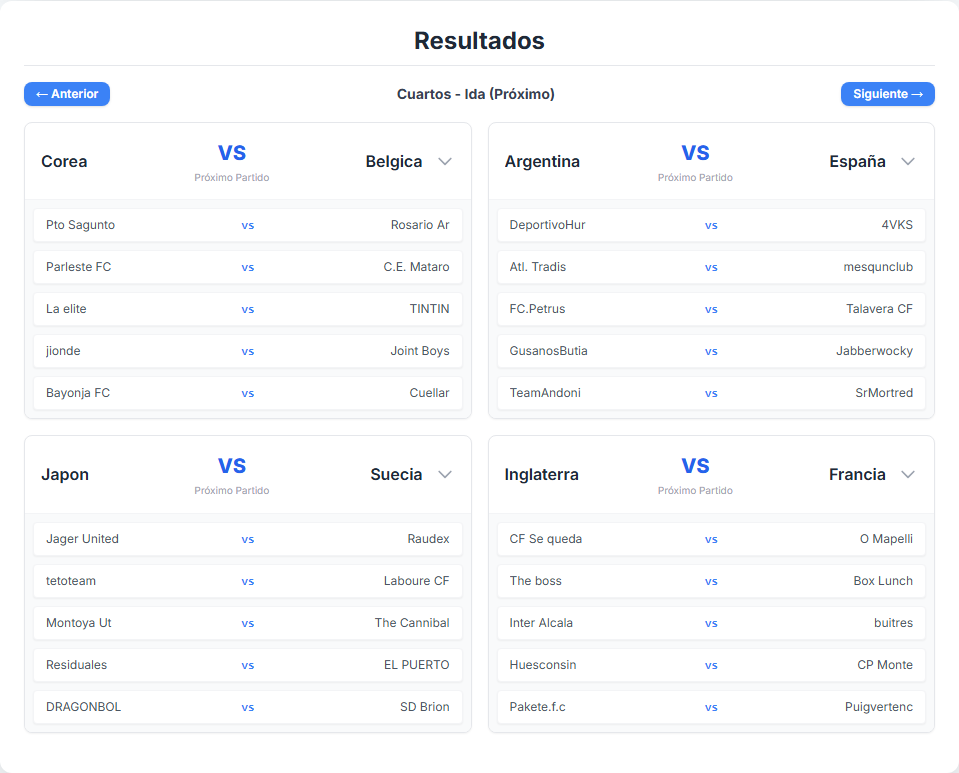
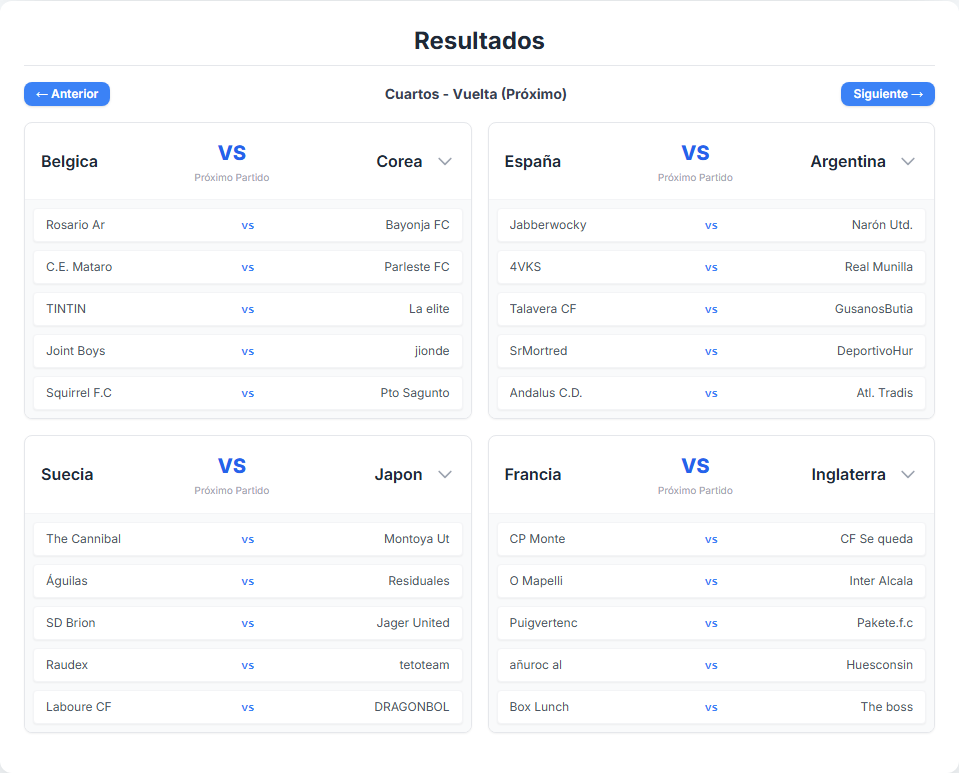
Actualización automática: 2025-12-10 20:06:41

diff --git a/index.html b/index.html
@@ -5482,6 +5482,166 @@
         "visit": "Puigvertenc",
         "jornada": 10,
         "is_scheduled": false
+    },
+    {
+        "local": "Rosario Ar",
+        "gl": null,
+        "gv": null,
+        "visit": "Bayonja FC",
+        "jornada": 11,
+        "is_scheduled": true
+    },
+    {
+        "local": "C.E. Mataro",
+        "gl": null,
+        "gv": null,
+        "visit": "Parleste FC",
+        "jornada": 11,
+        "is_scheduled": true
+    },
+    {
+        "local": "TINTIN",
+        "gl": null,
+        "gv": null,
+        "visit": "La elite",
+        "jornada": 11,
+        "is_scheduled": true
+    },
+    {
+        "local": "Joint Boys",
+        "gl": null,
+        "gv": null,
+        "visit": "jionde",
+        "jornada": 11,
+        "is_scheduled": true
+    },
+    {
+        "local": "Squirrel F.C",
+        "gl": null,
+        "gv": null,
+        "visit": "Pto Sagunto",
+        "jornada": 11,
+        "is_scheduled": true
+    },
+    {
+        "local": "The Cannibal",
+        "gl": null,
+        "gv": null,
+        "visit": "Montoya Ut",
+        "jornada": 11,
+        "is_scheduled": true
+    },
+    {
+        "local": "Águilas",
+        "gl": null,
+        "gv": null,
+        "visit": "Residuales",
+        "jornada": 11,
+        "is_scheduled": true
+    },
+    {
+        "local": "SD Brion",
+        "gl": null,
+        "gv": null,
+        "visit": "Jager United",
+        "jornada": 11,
+        "is_scheduled": true
+    },
+    {
+        "local": "Raudex",
+        "gl": null,
+        "gv": null,
+        "visit": "tetoteam",
+        "jornada": 11,
+        "is_scheduled": true
+    },
+    {
+        "local": "Laboure CF",
+        "gl": null,
+        "gv": null,
+        "visit": "DRAGONBOL",
+        "jornada": 11,
+        "is_scheduled": true
+    },
+    {
+        "local": "Jabberwocky",
+        "gl": null,
+        "gv": null,
+        "visit": "Narón Utd.",
+        "jornada": 11,
+        "is_scheduled": true
+    },
+    {
+        "local": "4VKS",
+        "gl": null,
+        "gv": null,
+        "visit": "Real Munilla",
+        "jornada": 11,
+        "is_scheduled": true
+    },
+    {
+        "local": "Talavera CF",
+        "gl": null,
+        "gv": null,
+        "visit": "GusanosButia",
+        "jornada": 11,
+        "is_scheduled": true
+    },
+    {
+        "local": "SrMortred",
+        "gl": null,
+        "gv": null,
+        "visit": "DeportivoHur",
+        "jornada": 11,
+        "is_scheduled": true
+    },
+    {
+        "local": "Andalus C.D.",
+        "gl": null,
+        "gv": null,
+        "visit": "Atl. Tradis",
+        "jornada": 11,
+        "is_scheduled": true
+    },
+    {
+        "local": "CP Monte",
+        "gl": null,
+        "gv": null,
+        "visit": "CF Se queda",
+        "jornada": 11,
+        "is_scheduled": true
+    },
+    {
+        "local": "O Mapelli",
+        "gl": null,
+        "gv": null,
+        "visit": "Inter Alcala",
+        "jornada": 11,
+        "is_scheduled": true
+    },
+    {
+        "local": "Puigvertenc",
+        "gl": null,
+        "gv": null,
+        "visit": "Pakete.f.c",
+        "jornada": 11,
+        "is_scheduled": true
+    },
+    {
+        "local": "añuroc al",
+        "gl": null,
+        "gv": null,
+        "visit": "Huesconsin",
+        "jornada": 11,
+        "is_scheduled": true
+    },
+    {
+        "local": "Box Lunch",
+        "gl": null,
+        "gv": null,
+        "visit": "The boss",
+        "jornada": 11,
+        "is_scheduled": true
     }
 ];
 
